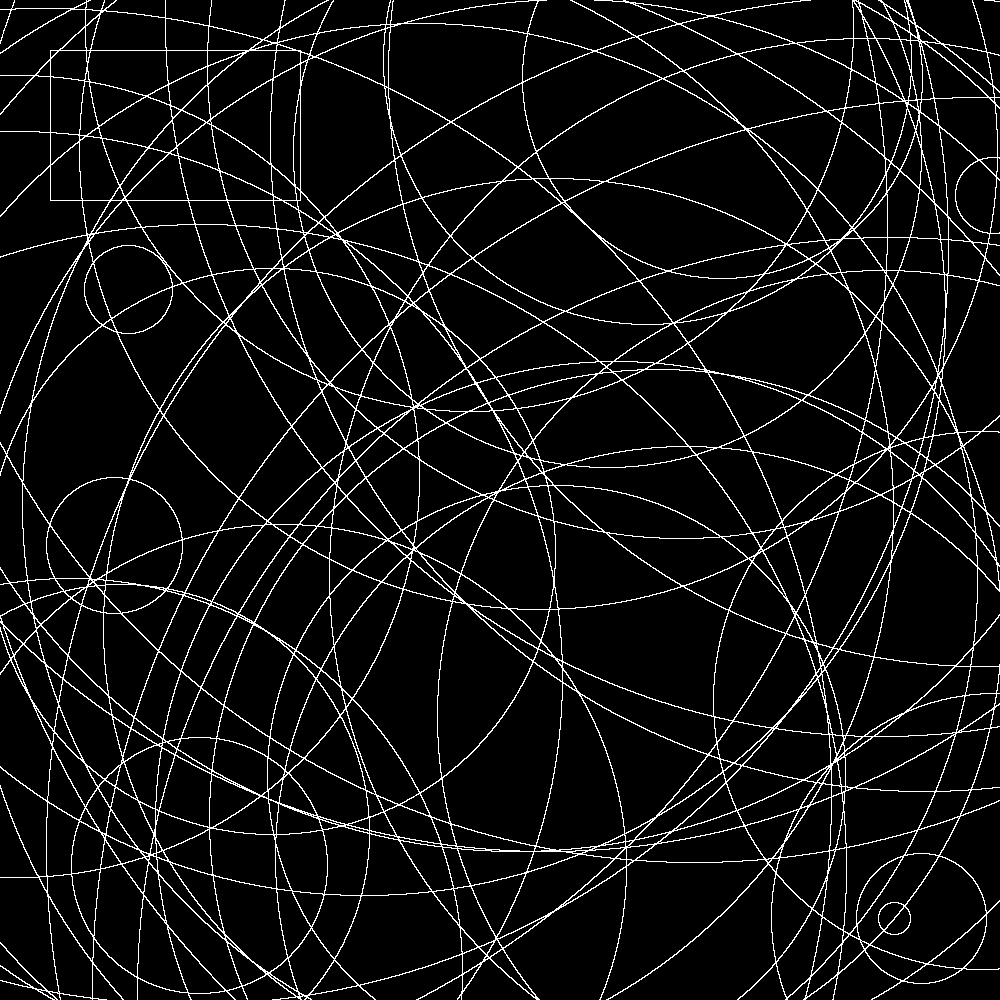
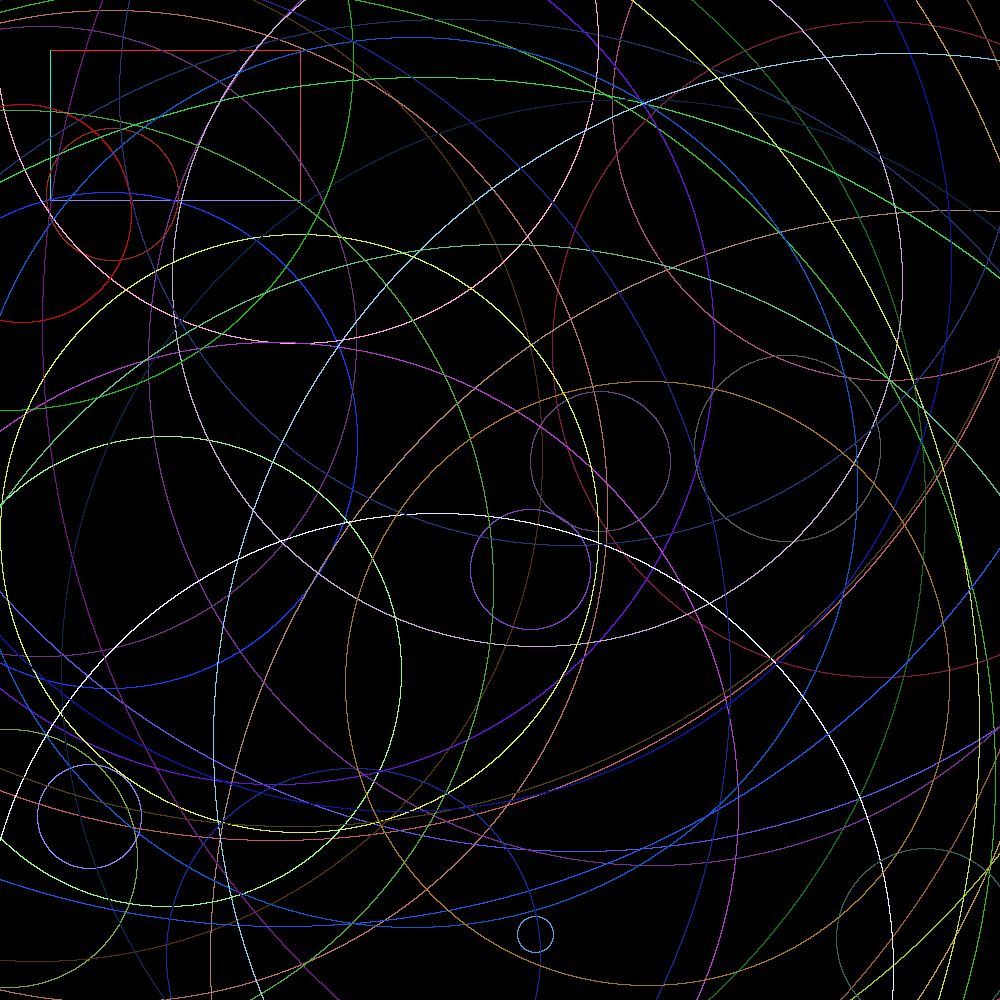
feat: add colored shapes

diff --git a/geometrical_shapes/Line.java b/geometrical_shapes/Line.java
@@ -2,7 +2,7 @@ package geometrical_shapes;
 
 import java.awt.Color;
 
-public class Line implements Drawable {
+public class Line extends Colored implements Drawable {
     Point a, b;
 
     public Line(Point a, Point b) {
@@ -10,9 +10,15 @@ public class Line implements Drawable {
         this.b = b;
     }
 
+    public Line(Point a, Point b, Color color) {
+        this.a = a;
+        this.b = b;
+        this.color = color;
+    }
+
     public void draw(Displayable displayable) {
-        displayable.display(a.x, a.y);
-        displayable.display(b.x, b.y);
+        displayable.display(a.x, a.y, getColor());
+        displayable.display(b.x, b.y, getColor());
 
         float distX = b.x - a.x;
         float distY = b.y - a.y;
@@ -25,12 +31,12 @@ public class Line implements Drawable {
         for (int i = 0; i < maxSteps; i++) {
             int nextX = Math.round(a.x + stepX * i);
             int nextY = Math.round(a.y + stepY * i);
-            displayable.display(nextX, nextY);
+            displayable.display(nextX, nextY, getColor());
         }
     }
 
     public Color getColor() {
-        throw new UnsupportedOperationException("Unimplemented method 'getColor'");
+        return this.color;
     }
 
 }

diff --git a/geometrical_shapes/Circle.java b/geometrical_shapes/Circle.java
@@ -2,7 +2,7 @@ package geometrical_shapes;
 
 import java.awt.Color;
 
-public class Circle implements Drawable {
+public class Circle extends Colored implements Drawable {
     Point center;
     int radius;
     static double radian = Math.PI / 180;
@@ -26,11 +26,11 @@ public class Circle implements Drawable {
             double angle = radian * i;
             double x = center.x + radius * Math.cos(angle);
             double y = center.y + radius * Math.sin(angle);
-            displayable.display((int) Math.round(x), (int) Math.round(y));
+            displayable.display((int) Math.round(x), (int) Math.round(y), getColor());
         }
     }
 
     public Color getColor() {
-        throw new UnsupportedOperationException("Unimplemented method 'getColor'");
+        return this.color;
     }
 }

diff --git a/geometrical_shapes/Image.java b/geometrical_shapes/Image.java
@@ -35,9 +35,9 @@ public class Image implements Displayable {
     }
 
     @Override
-    public void display(int x, int y) {
+    public void display(int x, int y, Color color) {
         if (x >= 0 && x < width && y >= 0 && y < height)
-            bufferedImage.setRGB(x, y, Color.WHITE.getRGB());
+            bufferedImage.setRGB(x, y, color.getRGB());
     }
 
     @Override

diff --git a/geometrical_shapes/Colored.java b/geometrical_shapes/Colored.java
@@ -1,0 +1,13 @@
+package geometrical_shapes;
+
+import java.awt.Color;
+import java.util.Random;
+
+public class Colored {
+    Color color = Colored.getRandomColor();
+
+    static Color getRandomColor() {
+        Random rnd = new Random();
+        return new Color(rnd.nextFloat(), rnd.nextFloat(), rnd.nextFloat());
+    }
+}

diff --git a/geometrical_shapes/Displayable.java b/geometrical_shapes/Displayable.java
@@ -1,7 +1,9 @@
 package geometrical_shapes;
 
-public interface Displayable {
-    void display(int x, int y);
+import java.awt.Color;
 
-    void save(String filename);
+public interface Displayable {
+    void display(int x, int y, Color color);
+
+    void save(String string);
 }
